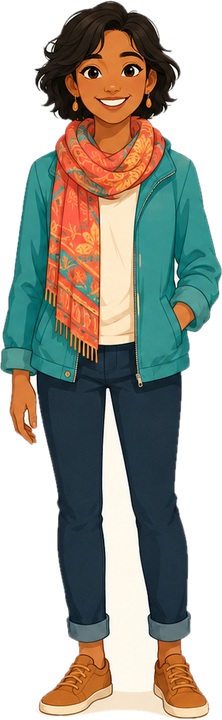
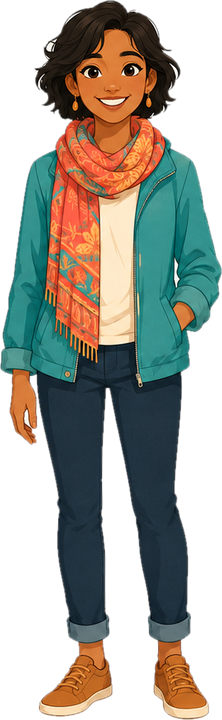
Mia: cleaner cutout (no gap between legs), sensible speaking tasks, Another one always changes

diff --git a/journey/index.html b/journey/index.html
@@ -375,7 +375,7 @@ function miaSvg(ri){
   var w = MIA.h * 222 / 720;
   return '<g class="mia" tabindex="0" role="button" aria-label="Mia">' +
     '<ellipse cx="' + MIA.x + '" cy="' + (MIA.y - 2) + '" rx="' + (w * .62) + '" ry="7" fill="#000" opacity=".38"/>' +
-    '<image class="mfig" href="img/mia_stand.png" x="' + (MIA.x - w / 2) + '" y="' + (MIA.y - MIA.h) + '" width="' + w + '" height="' + MIA.h + '"/>' +
+    '<image class="mfig" href="img/mia_stand.png?v=2" x="' + (MIA.x - w / 2) + '" y="' + (MIA.y - MIA.h) + '" width="' + w + '" height="' + MIA.h + '"/>' +
     '<rect x="' + (MIA.x - w * .7) + '" y="' + (MIA.y - MIA.h) + '" width="' + (w * 1.4) + '" height="' + MIA.h + '" fill="transparent"/></g>';
 }
 function miaState(){
@@ -408,15 +408,21 @@ function miaLine(){
 }
 var MIA_NOW = null;
 var MIA_REPLY = ['Lovely. Now say it once more, a little slower. It sounds better each time.', 'Good. That is exactly how words move from your head to your mouth.', 'Well said. Tell your teacher about it in your next lesson.', 'I liked that. Keep it, and use it again tomorrow.'];
+function cleanTitle(t){ return String(t).replace(/^Mia — /, '').replace(/^Lesson \d+ · /, ''); }
+var lastTask = '';
 function miaTask(){
-  var pool = lessons.filter(function(l){ return !l.rec && l.words.length >= 2; }), recs = lessons.filter(function(l){ return l.rec && !l.talk; }), talks = lessons.filter(function(l){ return l.talk; });
-  var opts = [];
-  if (pool.length) { var l = pool[Math.floor(Math.random() * pool.length)], ws = l.words.slice().sort(function(){ return Math.random() - .5; }), v = {title: l.title, w1: ws[0], w2: ws[1]};
-    ['Use “{w1}” and “{w2}” together in two sentences about your own life.', 'Explain “{w1}” to me without using the word itself.', 'Tell me about “{title}” in thirty seconds. Try to use “{w1}”.', 'Imagine you are telling a friend about “{title}”. What would you say first?'].forEach(function(t){ opts.push(fmt(t, v)); }); }
-  if (recs.length) { var r = recs[Math.floor(Math.random() * recs.length)]; opts.push(fmt('Tell me one thing you remember from “{title}”.', {title: r.title}), fmt('If a friend asked what “{title}” was about, what would you say?', {title: r.title})); }
-  if (talks.length) { var tk = talks[Math.floor(Math.random() * talks.length)]; opts.push(fmt('What did you say about “{title}”? Say it again, a little clearer and a little longer.', {title: tk.title})); }
-  if (!opts.length) opts.push('Tell me about your day in three sentences.');
-  return choose('task', opts);
+  function one(){
+    var pool = lessons.filter(function(l){ return !l.rec && l.words.filter(function(w){ return /^[A-Za-z']{4,}$/.test(w); }).length >= 2; }), recs = lessons.filter(function(l){ return l.rec && !l.talk; }), talks = lessons.filter(function(l){ return l.talk; });
+    var opts = [];
+    if (pool.length) { var l = pool[Math.floor(Math.random() * pool.length)], ws = l.words.filter(function(w){ return /^[A-Za-z']{4,}$/.test(w); }).sort(function(){ return Math.random() - .5; }), v = {title: cleanTitle(l.title), w1: ws[0], w2: ws[1]};
+      ['Say one true sentence about your life using “{w1}”.', 'Say two sentences using “{w1}” and “{w2}”.', 'Tell me about “{title}” in your own words.', 'Explain “{w1}” to me without using the word itself.'].forEach(function(t){ opts.push(fmt(t, v)); }); }
+    if (recs.length) { var r = recs[Math.floor(Math.random() * recs.length)]; opts.push(fmt('Tell me one thing you remember from “{title}”.', {title: cleanTitle(r.title)}), fmt('If a friend asked what “{title}” was about, what would you say?', {title: cleanTitle(r.title)})); }
+    if (talks.length) { var tk = talks[Math.floor(Math.random() * talks.length)]; opts.push(fmt('What did you say about “{title}”? Say it again, a little clearer and a little longer.', {title: cleanTitle(tk.title)})); }
+    opts.push('Tell me about your day in three sentences.', 'Tell me about something you did this week.');
+    return opts[Math.floor(Math.random() * opts.length)];
+  }
+  var t = one(), n = 0; while (t === lastTask && n++ < 12) t = one();
+  return lastTask = t;
 }
 function miaSheet(task, done){
   var m = MIA_NOW || (MIA_NOW = miaLine()), st = m.st, face = done ? 'laugh' : (task ? 'smile' : m.face), say = done ? choose('reply', MIA_REPLY) : task ? choose('lead', ['Here is something to try.', 'Try this one.', 'Take your time with this.']) : m.text;
@@ -431,7 +437,7 @@ function bindMia(){
   function show(task, done){ sheet.innerHTML = miaSheet(task, done); bindMia(); }
   var t = document.getElementById('mtask'), o = document.getElementById('mother'), d = document.getElementById('mdone');
   if (t) t.onclick = function(){ show(miaTask(), false); };
-  if (o) o.onclick = function(){ show(miaTask(), false); };
+  if (o) o.onclick = function(){ var tx = document.getElementById('mtext'); if (tx) tx.value = ''; show(miaTask(), false); };
   if (d) d.onclick = function(){ show(null, true); };
 }
 
